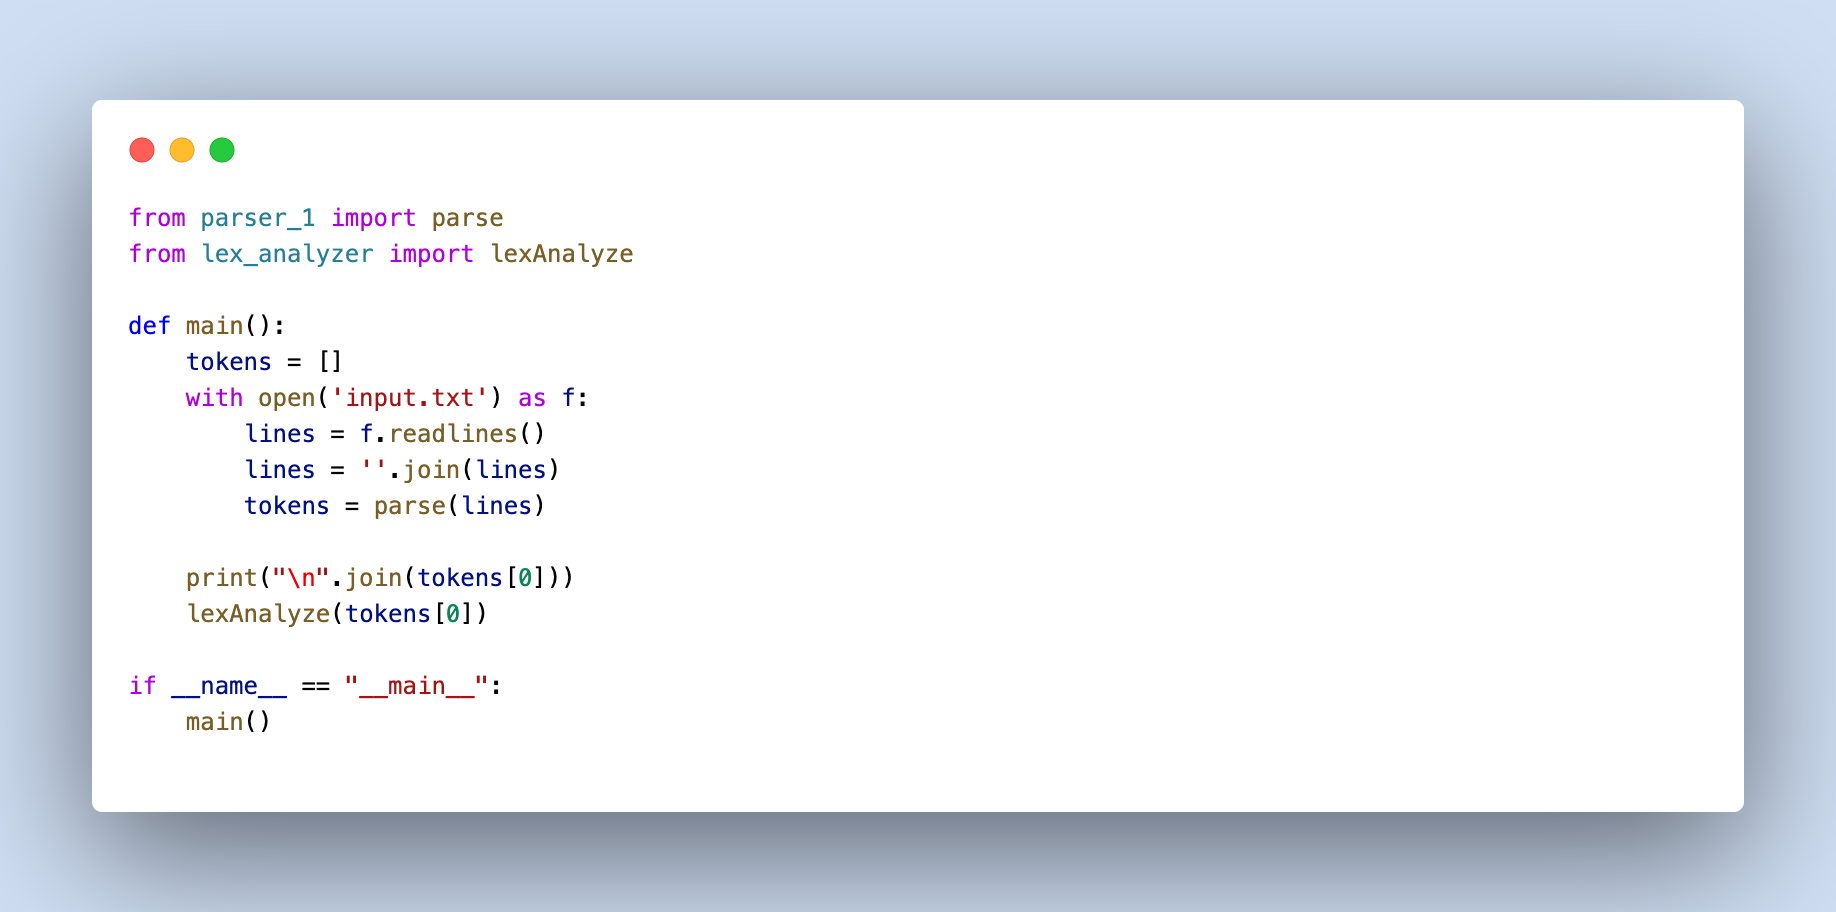
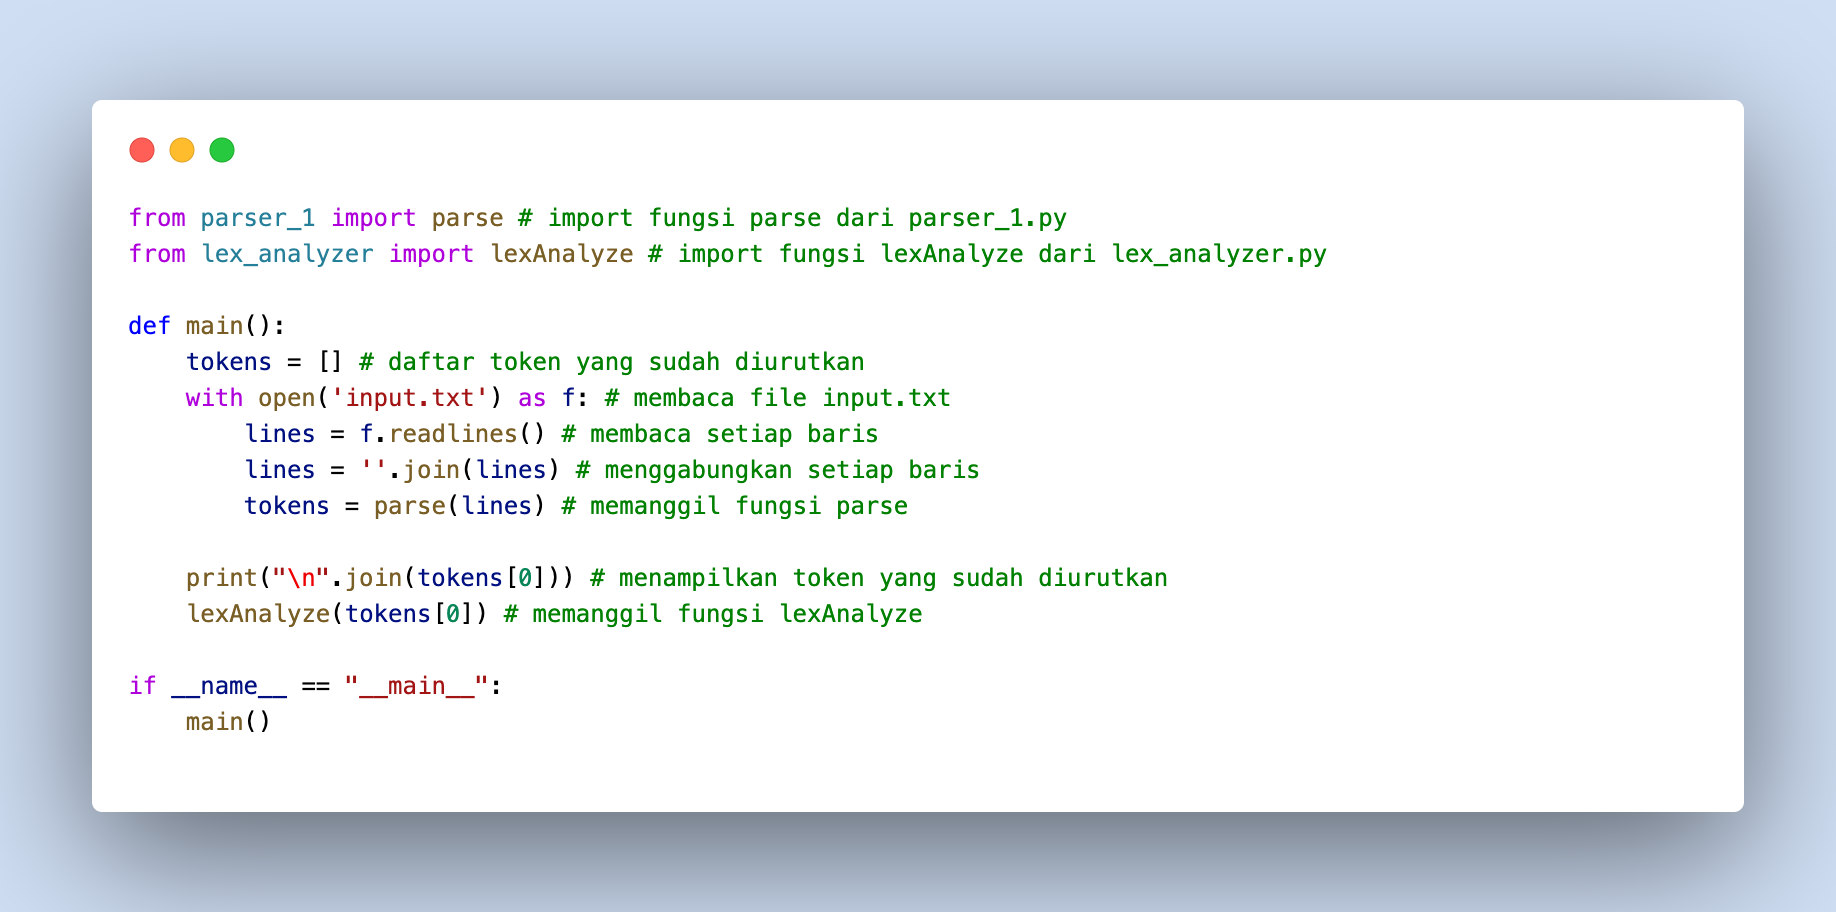
img & parser

Changed region(s): [[0.2173, 0.3684, 0.5278, 0.5833], [0.2794, 0.2149, 0.7141, 0.307], [0.2794, 0.614, 0.652, 0.7061]]

diff --git a/parser_1.py b/parser_1.py
@@ -1,28 +1,28 @@
 def parse(sentence):
-    sentence = sentence.split('\n')
+    sentence = sentence.split('\n') # memisahkan setiap baris
 
-    clean_sentence = []
-    for part in sentence:
-        clean_sentence.append(part.strip())
-    clean_sentence = "".join(clean_sentence)
+    clean_sentence = [] # daftar token yang sudah dibersihkan
+    for part in sentence: 
+        clean_sentence.append(part.strip()) # membersihkan setiap baris
+    clean_sentence = "".join(clean_sentence) # menggabungkan setiap baris
 
-    ordered_token = []
-    buffer = []
-    recognized_token = ['if', 'else', '==', '<=', '>=', '&&', '||']
+    ordered_token = [] # daftar token yang sudah diurutkan
+    buffer = [] # buffer untuk menampung token
+    recognized_token = ['if', 'else', '==', '<=', '>=', '&&', '||'] # daftar token yang sudah dikenali
 
-    for char in clean_sentence:
-        buffered = ''.join(buffer)
-        if buffered in recognized_token:
-            for i in range(len(buffered)):
-                ordered_token.pop(-1)
-            ordered_token.append(buffered)
+    for char in clean_sentence: 
+        buffered = ''.join(buffer) # menggabungkan token yang sudah dibuffer
+        if buffered in recognized_token: # jika token sudah dikenali
+            for i in range(len(buffered)): # menghapus token yang sudah dibuffer
+                ordered_token.pop(-1) 
+            ordered_token.append(buffered) # menambahkan token yang sudah dikenali
 
-        ordered_token.append(char)
+        ordered_token.append(char) # menambahkan token yang belum dikenali
 
-        buffer.append(char)
+        buffer.append(char) # menambahkan token ke buffer
 
-        if char == ' ':
-            buffer.clear()
-    ordered_token.append('#')
+        if char == ' ': # jika token adalah spasi
+            buffer.clear() # mengosongkan buffer
+    ordered_token.append('#') # menambahkan token akhir
 
-    return [ordered_token, clean_sentence]
+    return [ordered_token, clean_sentence] # mengembalikan daftar token yang sudah diurutkan dan daftar token yang sudah dibersihkan
